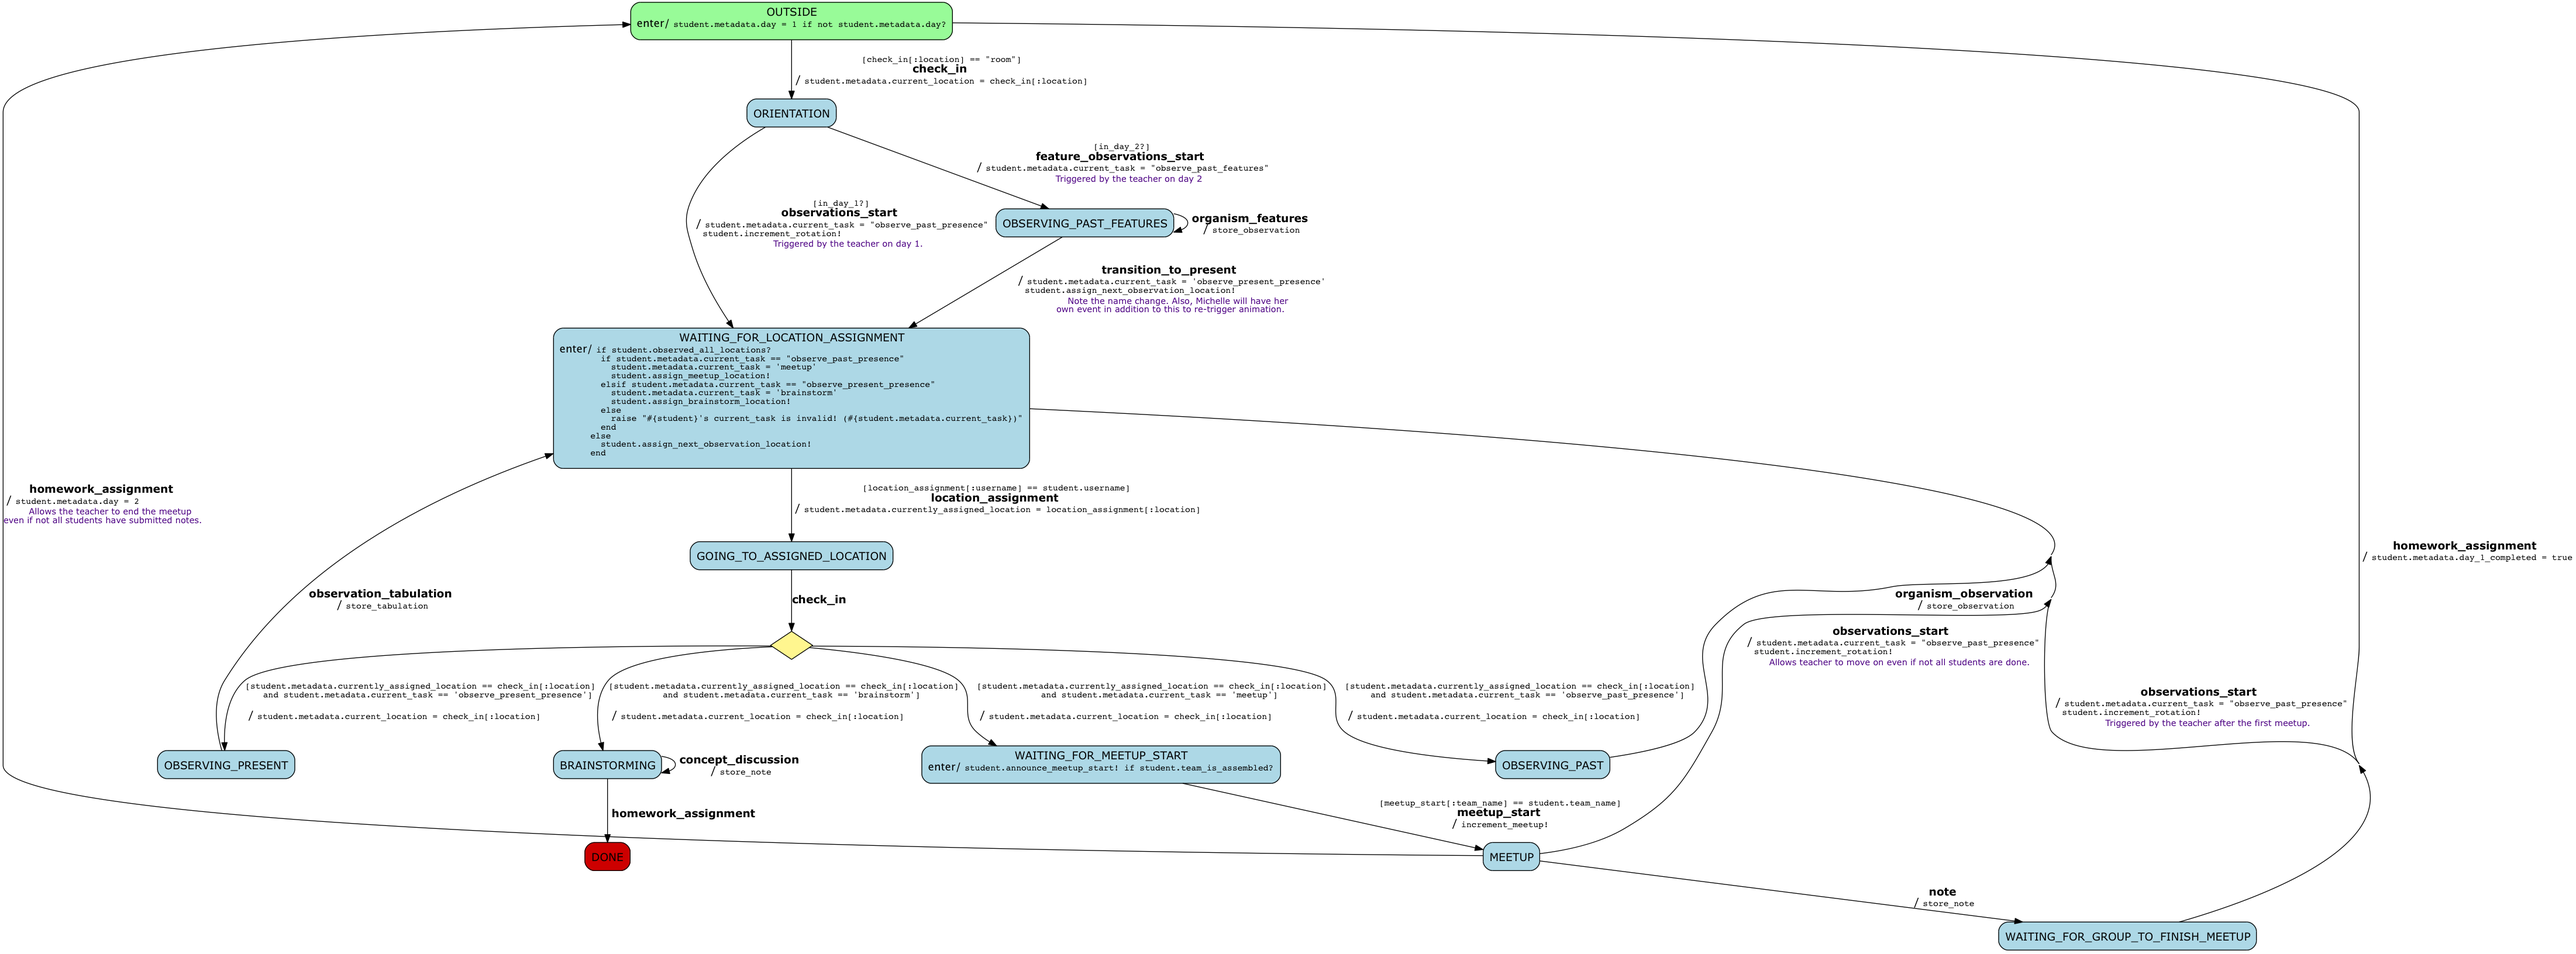
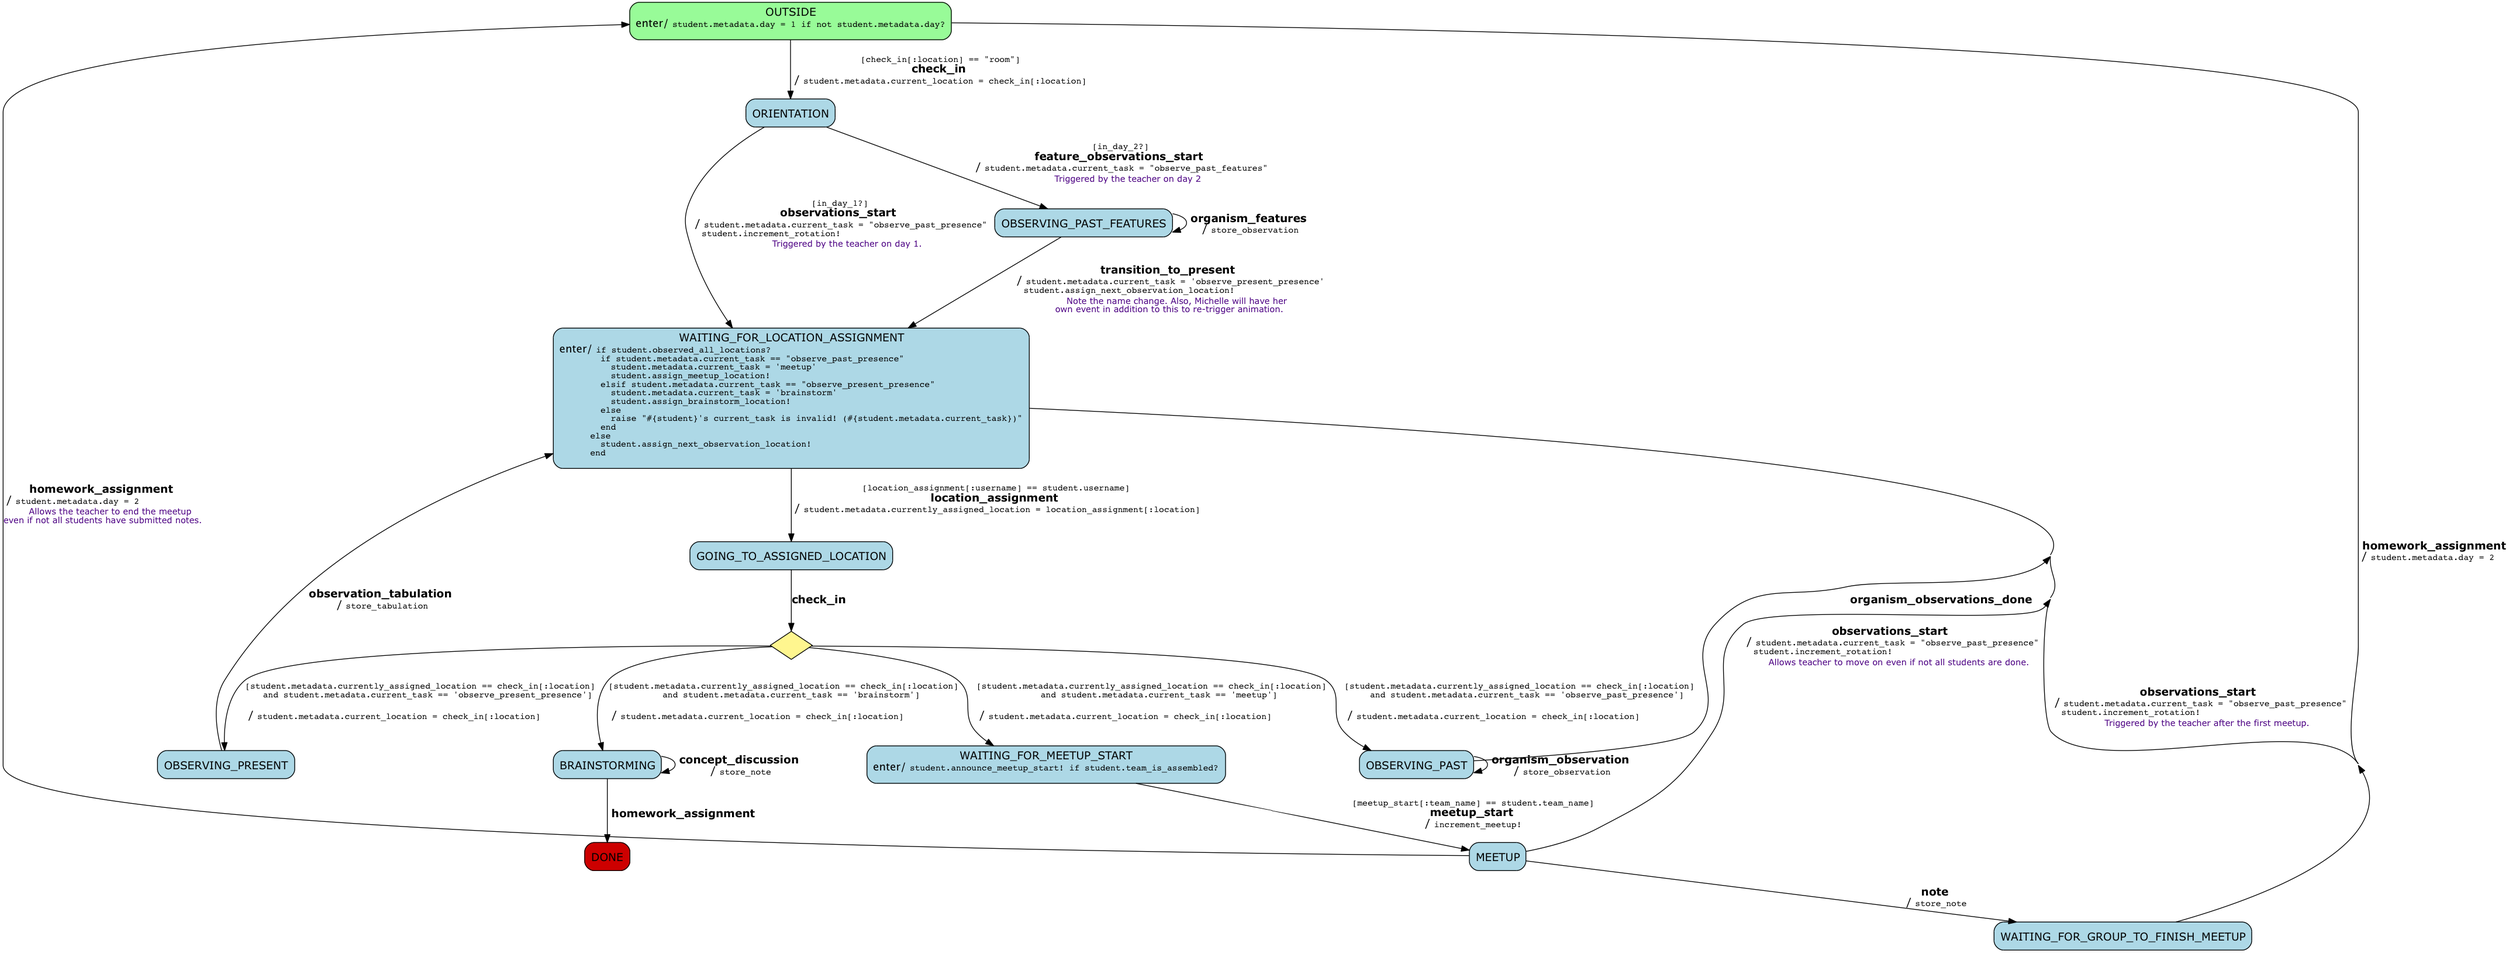
added organism_observations_done event

diff --git a/agents/spec/choreographer_spec.rb b/agents/spec/choreographer_spec.rb
@@ -54,7 +54,14 @@ describe Choreographer do
                 ev(:check_in, lambda{{:location => @assigned_location}})
                 wait('OBSERVING_PAST')
                 ev(:organism_observation, 
-                  lambda{{"location" => @assigned_location, "team_name" => "Darwin","assigned_organism" => "fig_tree","observed_organism" => "fig_tree","time" => "200 mya"}})
+                  lambda{{"location" => @assigned_location, "team_name" => "Darwin","assigned_organism" => "fig_tree","observed_organism" => "first","time" => "200 mya"}})
+                wait('OBSERVING_PAST')
+                ev(:organism_observation, 
+                  lambda{{"location" => @assigned_location, "team_name" => "Darwin","assigned_organism" => "fig_tree","observed_organism" => "second","time" => "200 mya"}})
+                wait('OBSERVING_PAST')
+                
+                ev(:organism_observations_done, {})
+                
                 wait('WAITING_FOR_LOCATION_ASSIGNMENT')
               end
               
@@ -97,8 +104,15 @@ describe Choreographer do
                 wait('GOING_TO_ASSIGNED_LOCATION')
                 ev(:check_in, lambda{{:location => @assigned_location}})
                 wait('OBSERVING_PAST')
+                
                 ev(:organism_observation, 
                   lambda{{"location" => @assigned_location, "team_name" => "Darwin","assigned_organism" => "fig_tree","observed_organism" => "fig_tree","time" => "200 mya"}})
+                wait('OBSERVING_PAST')
+                ev(:organism_observation, 
+                  lambda{{"location" => @assigned_location, "team_name" => "Darwin","assigned_organism" => "fig_tree","observed_organism" => "monkey","time" => "200 mya"}})
+                wait('OBSERVING_PAST')
+                ev(:organism_observations_done, {})
+                
                 wait('WAITING_FOR_LOCATION_ASSIGNMENT')
               end
               

diff --git a/agents/choreographer.rb b/agents/choreographer.rb
@@ -139,6 +139,10 @@ class Choreographer < Sail::Agent
       location = data['payload']['location']
       lookup_student(username).organism_observation!(data['payload'].symbolize_keys)
     end
+    event :organism_observations_done? do |stanza, data|
+      username = data['origin']
+      lookup_student(username).organism_observations_done!
+    end
     event :meetup_start? do |stanza, data|
       @students.each do |username, stu|
         stu.meetup_start!(data['payload'].symbolize_keys)

diff --git a/agents/model/student_statemachine.rb b/agents/model/student_statemachine.rb
@@ -79,7 +79,8 @@ StudentStatemachine = proc do
   end
 
   state :OBSERVING_PAST do
-    on :organism_observation, :to => :WAITING_FOR_LOCATION_ASSIGNMENT, :action => :store_observation
+    on :organism_observation, :action => :store_observation
+    on :organism_observations_done, :to => :WAITING_FOR_LOCATION_ASSIGNMENT
   end
   
   state :GOING_TO_ASSIGNED_LOCATION do
